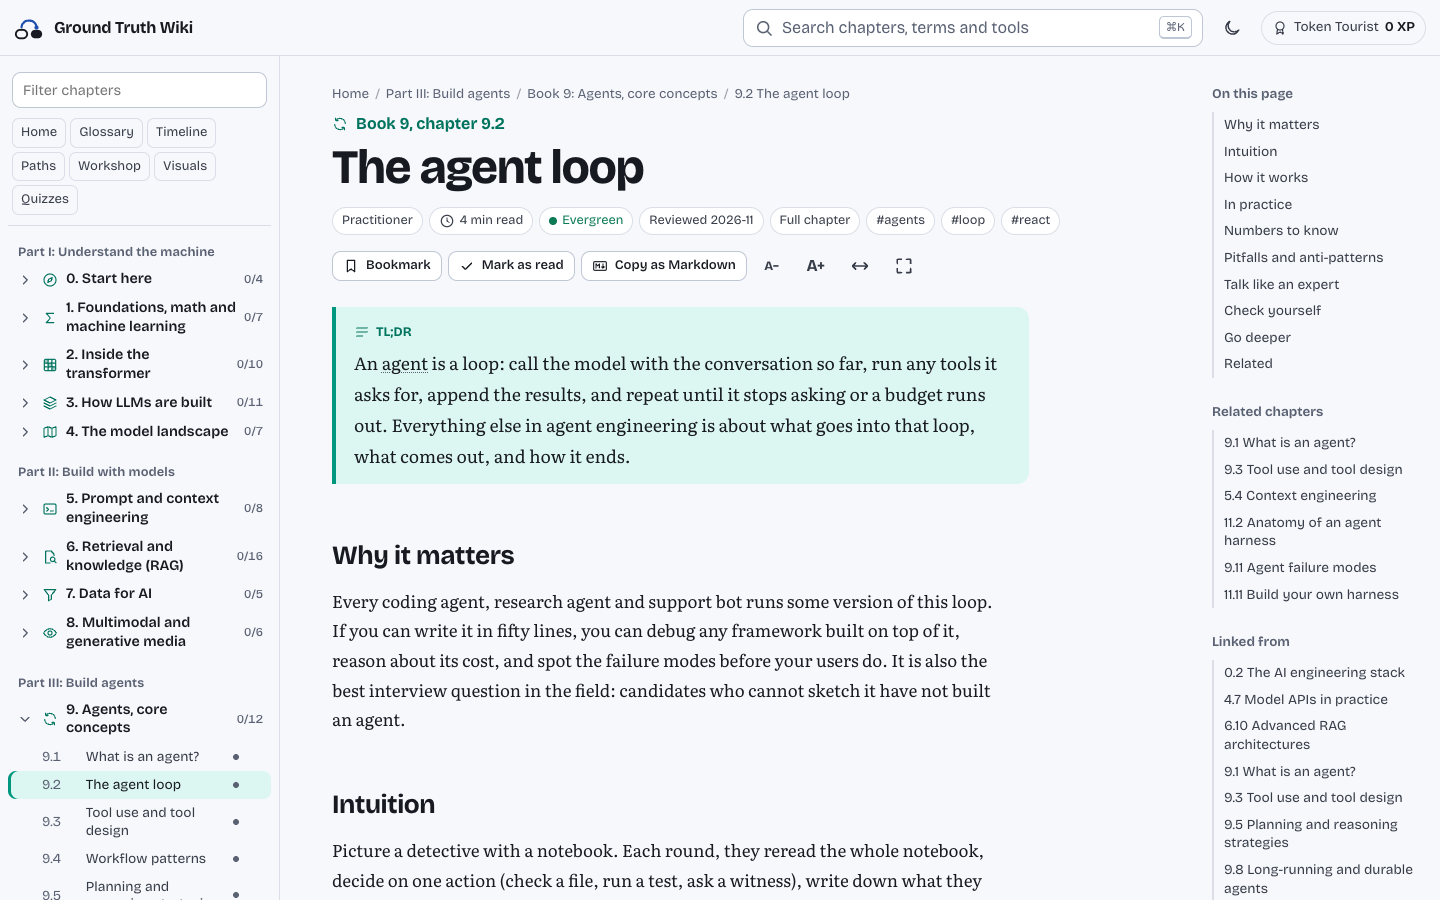
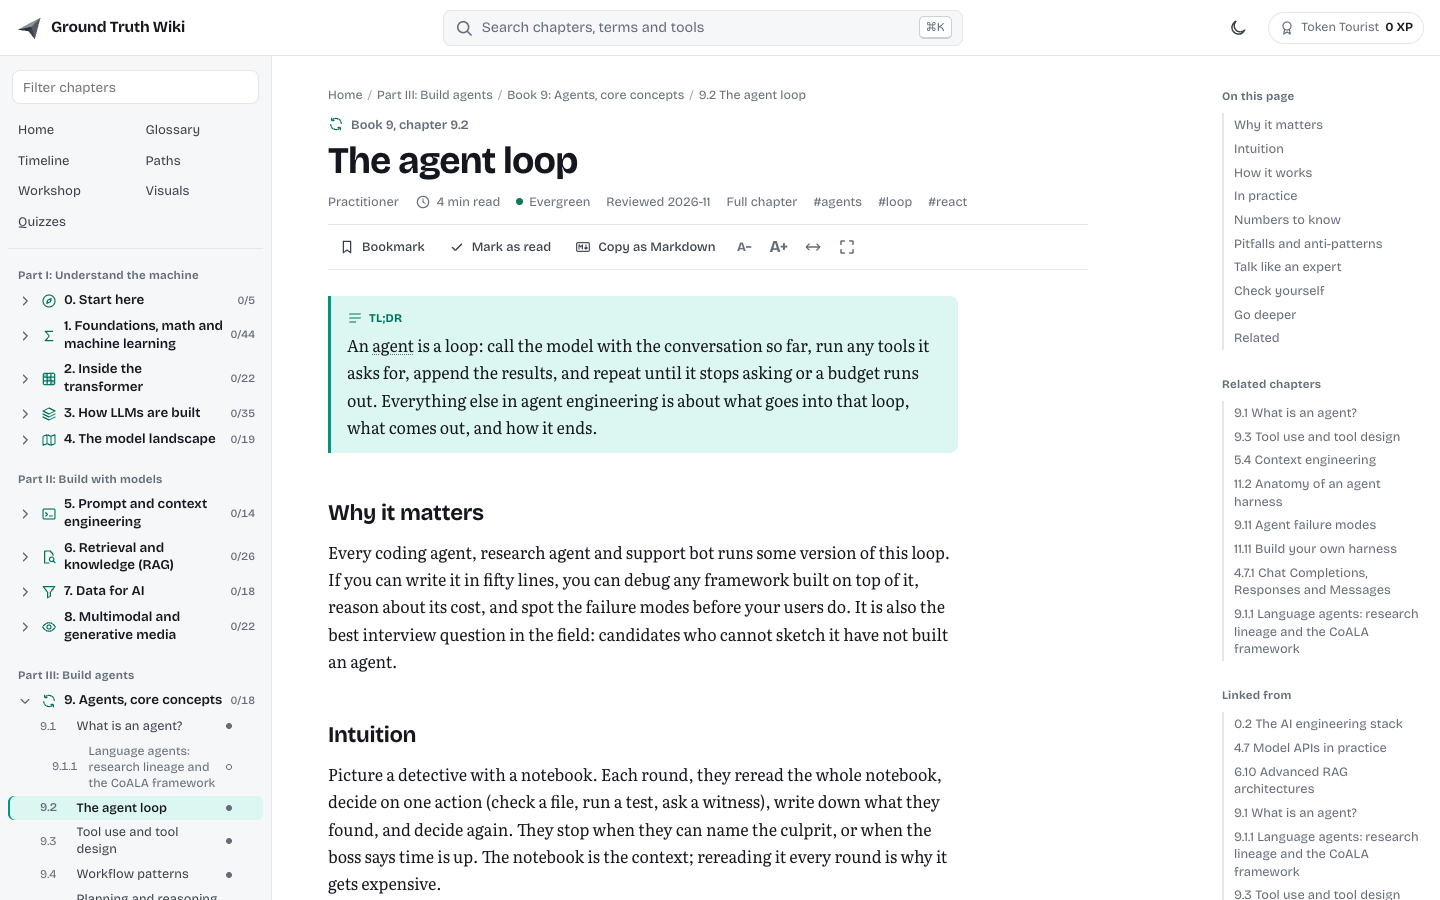
docs: describe the new design and refresh the preview images
DESIGN.md covers the light default, the type sizes, the reading
layout, deep dives and the brand mark. The README screenshot and the
link preview image show the new look.

Claude-Session: https://claude.ai/code/session_01SxZZNNRHYg5G11QoM5iind

diff --git a/docs/DESIGN.md b/docs/DESIGN.md
@@ -26,20 +26,21 @@ All values live as CSS variables in [engine/styles.css](../engine/styles.css). C
 | Body text | Literata (variable, optical sizes, with italics) | Iowan Old Style, Palatino, Georgia |
 | Code | JetBrains Mono (400 and 600) | SFMono-Regular, Menlo, Consolas |
 
-The fonts are self-hosted (SIL Open Font License); see `scripts/lib/vendor.mjs`. The body measure is `--measure: 68ch`, and readers can change text size and line width in Preferences.
+The fonts are self-hosted (SIL Open Font License); see `scripts/lib/vendor.mjs`. Body text is 16 px Literata with a line height of 1.7, the interface is set at 15 px, and chapter titles at about 37 px on a desktop. The body measure is `--measure: 68ch`, and readers can change text size and line width in Preferences.
 
 ### Color
 
 | Token | Light | Dark |
 |---|---|---|
-| `--bg` | `#F7F8FB` | `#11151D` |
+| `--paper` (reading surface) | `#FFFFFF` | `#11151D` |
+| `--bg` (navigation and fields) | `#F6F7F9` | `#11151D` |
 | `--surface` | `#FFFFFF` | `#171C26` |
-| `--ink` | `#171A21` | `#E8EBF1` |
-| `--ink-2` | `#363C48` | `#C5CBD6` |
+| `--ink` | `#14171D` | `#E8EBF1` |
+| `--ink-2` | `#394049` | `#C5CBD6` |
 | `--link` | `oklch(46% .16 262)` | `oklch(79% .11 262)` |
 | `--acc` | `oklch(47% .15 var(--acc-h))` | `oklch(80% .11 var(--acc-h))` |
 
-The theme follows the system setting until the reader picks one; both themes are complete, not an inverted afterthought.
+The light theme is the default, whatever the system setting. Readers can switch to dark with the theme button, or choose dark or "Match the system" in Preferences; both themes are complete, not an inverted afterthought.
 
 **Book accents.** Each book has a hue in `data/books.json` (`hue`, from 0 to 360). Book pages and chapters set `--acc-h` to it, so the accent, its background and its line color all follow from one number. The 21 hues are spread around the color wheel so neighbouring books differ. A new book picks a hue that is not close to its neighbours'.
 
@@ -51,7 +52,17 @@ Radii are `--r-sm: 6px`, `--r-md: 10px` and `--r-lg: 14px`. The header is `--top
 
 ### Layout and breakpoints
 
-Three columns from 1,200 px (navigation, chapter, on this page). Below that, "On this page" becomes a drawer, and below 900 px the navigation does too. Further breakpoints at 760, 700, 640 and 420 px tune tables, the hero and the search palette. Print styles (`@media print`) give clean chapter and cheat-sheet printouts.
+Three columns from 1,200 px: navigation (272 px, on `--bg`), the chapter on the white reading surface, and on this page (236 px). Below that, "On this page" becomes a drawer, and below 900 px the navigation does too. Further breakpoints at 760, 700, 640 and 420 px tune tables, the hero and the search palette. Print styles (`@media print`) give clean chapter and cheat-sheet printouts.
+
+### Chapter pages and navigation
+
+A chapter opens with its breadcrumbs, its book and number, the title, one quiet line of facts (level, reading time, stability, review date, status, tags) and one tool strip between hairlines. Deep dives, the chapters with a three-part number such as 2.3.1, are indented and set smaller in the navigation, and book maps leave them out and list them below, so the main path through a book stays visible.
+
+These rules are the design layer at the end of `engine/styles.css`, marked `gt: reading layout`; they override the original rules above them.
+
+### Brand
+
+The mark is a faceted compass arrow. In the header it is an inline SVG whose four facets use `--mark-1` to `--mark-4`, so it works in both themes. The favicon is a 48 px PNG embedded in `engine/shell.html` and `engine/static.html`; `docs/assets/apple-touch-icon.png` (180 px) and `docs/assets/icon-512.png` hold the same icon for devices and other uses.
 
 ### Icons
 
